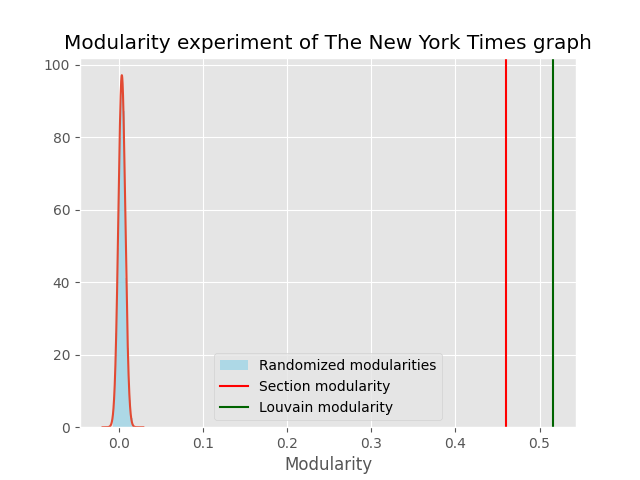
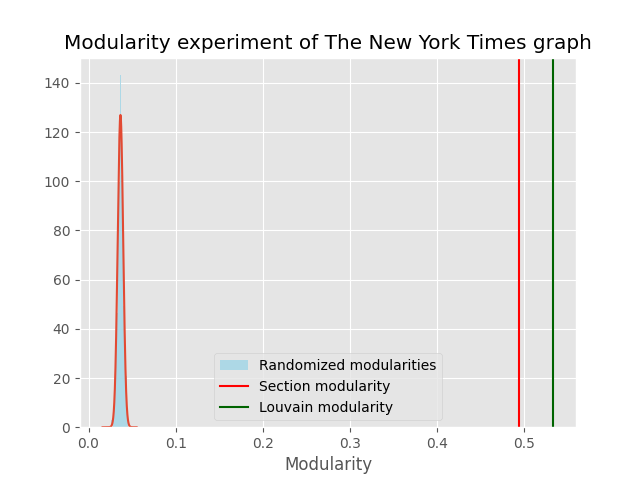
Fixed images

diff --git a/content/network-analysis.md b/content/network-analysis.md
@@ -30,7 +30,7 @@ The resulting graph of removing the nodes corresponding to authors with 5 or few
 There are some nodes which are disconnected from the main component, and as such will not be able to give much information
 about the community structure of the graph. As such we choose to look at the largest connected component, which holds the majority
 of the nodes in the graph. In the figures below we see the degree distribution of the largest connected component of New York Times graph before and
-after removing the nodes with less than 5 articles written.
+after removing the nodes with less than 5 articles written, we see that some outliers with more than 2.000 links are reduced to a more reasonable number.
 
 |               Before               |               After               |
 |:----------------------------------:|:---------------------------------:|
@@ -38,18 +38,21 @@ after removing the nodes with less than 5 articles written.
 
 Additionally, there are also some network statistics of the largest connected component of the graph before and after removing the unwanted nodes.
 
-|            Stat             |  Before  |   After   |
-|:---------------------------:|:--------:|:---------:|
-|           #Nodes            |  15,556  |   1,234   |
-|           #Edges            |  79,857  |   7,342   |
-|         Avg. degree         |  10.26   |   11.90   |
-|        Median degree        |    7     |     5     |
-| Avg. clustering coefficient |  0.792   |   0.184   |
+|            Stat             |  Before  | After  |
+|:---------------------------:|:--------:|:------:|
+|           #Nodes            |  15,556  | 1,285  |
+|           #Edges            |  79,857  | 12.731 |
+|         Avg. degree         |  10.26   | 19.81  |
+|        Median degree        |    7     |   12   |
+| Avg. clustering coefficient |  0.792   | 0.326  |
 
 We remove a lot of nodes and edges by discarding the nodes with less than 5 articles written, but the average degree of the graph
-increases slightly, while the median degree and average clustering coefficient decreases. This means that the graph is less dense
-after removing the nodes, and also reduces the extremes in the degree distribution, such as one author having 2.600 links prior to
-removing the nodes.
+almost doubles, additionally the median also increases significantly, which is to be expected as authors with low number of articles written, 
+should have fewer connections. The resulting graph is more densely connected, although the drop in the average clustering coefficient is relatively large 
+
+We see that the extremes in the degree distribution are reduced significantly, such as one author having 2.600
+links prior to removing the nodes. The clustering coefficient is reduced significantly, this is likely due to the fact that the 
+large blob of nodes has a lot of interconnected nodes, which are removed since a large portion of them have less than 5 articles written.
 
 The largest connected component of the processed New York Times graph can be seen below.
 
@@ -73,7 +76,7 @@ In the table below the modularities from the two partitions and the randomizatio
 
 |  Section  |  Louvain  |         Randomization         |
 |:---------:|:---------:|:-----------------------------:|
-| $$0.460$$ | $$0.515$$ | $$\mathcal{N}(0.003, 0.004)$$ |
+| $$0.494$$ | $$0.534$$ | $$\mathcal{N}(0.037, 0.003)$$ |
 
 The modularity of both the section and Louvain partitions are significantly better than a random partition of the graph, with the 
 Louvain partition being slightly better than the section partition.
@@ -93,7 +96,8 @@ The resulting graph can be seen below.
 
 ![](/images/reuters1.png)
 
-To see the result of removing the nodes we will look at the degree distribution of the largest connected component of the graph before and after removing the nodes.
+To see the result of removing the nodes we will look at the degree distribution of the largest connected component of the graph
+before and after removing the nodes. We see no change in the high degree nodes, but the low degree nodes are shifted to the right.
 
 |                 Before                 |                 After                 |
 |:--------------------------------------:|:-------------------------------------:|
@@ -103,14 +107,14 @@ The network statistics of the graph before and after pruning can be seen in the 
 
 |            Stat             | Before | After  |
 |:---------------------------:|:------:|:------:|
-|           #Nodes            | 3,276  | 1,942  |
-|           #Edges            | 19,071 | 14,943 |
-|         Avg. degree         | 11.64  | 15.39  |
-|        Median degree        |   4    |   10   |
-| Avg. clustering coefficient | 0.220  | 0.269  |
+|           #Nodes            | 3,276  | 1,947  |
+|           #Edges            | 19,071 | 17,131 |
+|         Avg. degree         | 11.64  | 17.60  |
+|        Median degree        |   4    |   12   |
+| Avg. clustering coefficient | 0.220  | 0.290  |
 
-The average degree of the graph is increased by removing the nodes, but the median degree is also increased, which means that the
-graph is more dense after removing the nodes.
+Both the average degree and median degrees increase significantly after removing the nodes. Which means that the graph is denser.
+
 
 Once again we chose to look at the largest connected component of the graph, which can be seen below.
 
@@ -129,7 +133,7 @@ The modularity of the two partitions and the randomization experiment can be see
 
 |  Section  |  Louvain  |         Randomization         |
 |:---------:|:---------:|:-----------------------------:|
-| $$0.242$$ | $$0.558$$ | $$\mathcal{N}(0.014, 0.003)$$ |
+| $$0.233$$ | $$0.528$$ | $$\mathcal{N}(0.020, 0.003)$$ |
 
 As with the New York Times graph the modularity of both partitions are significantly better than that of a random partition of the graph,
 although the Louvain partition increases the modularity by a much larger margin than the section partition.
@@ -144,6 +148,6 @@ whereas the collaboration within Reuters is more spread out across sections.
 Upon closer inspection of the section partitioning of the section partitioning of both graph we see that, the Reuters graph has 39 sections,
 whereas the New York Times graph only has 21 sections. This could be due to the fact that the New York Times has fewer more general sections,
 whereas Reuters sections which are less general. We can also look at the number of communities given by the Louvain algorithm for each graph,
-the New York Times graph is partitioned into 13 communities, and the Reuters graph is partitioned into 14 communities. The number of communities
-is much closer to the number of sections in the New York Times graph than in the Reuters graph, where the number of sections is almost three times
+the New York Times graph is partitioned into 9 communities, and the Reuters graph is partitioned into 11 communities. The number of communities
+is only half the number of sections in the New York Times graph compared to the Reuters graph, where the number of sections is almost four times
 the number of communities the Louvain algorithm partitions the graph into.
